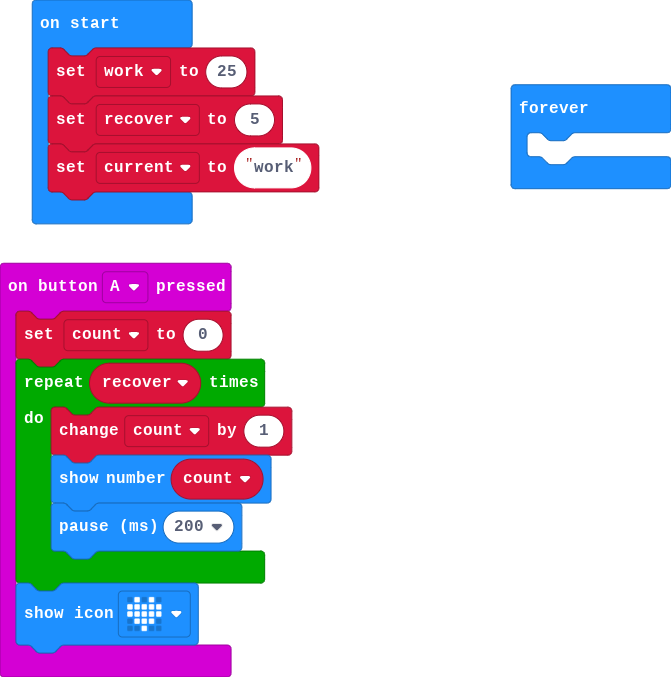
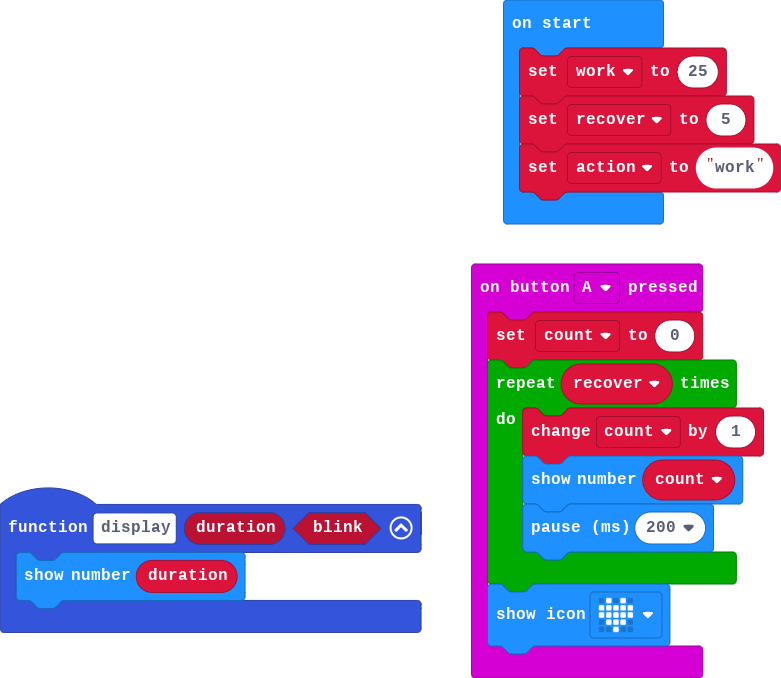
wip

diff --git a/main.ts b/main.ts
@@ -7,8 +7,11 @@ input.onButtonPressed(Button.A, function () {
     }
     basic.showIcon(IconNames.Heart)
 })
+function display (duration: number, blink: boolean) {
+    basic.showNumber(duration)
+}
 let count = 0
+let recover = 0
 let work = 25
-let recover = 5
+recover = 5
 let action = "work"
-
